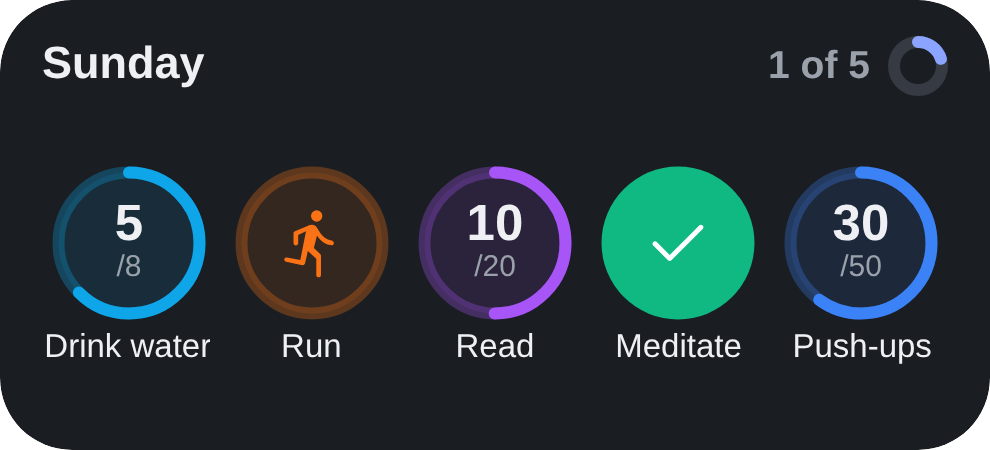
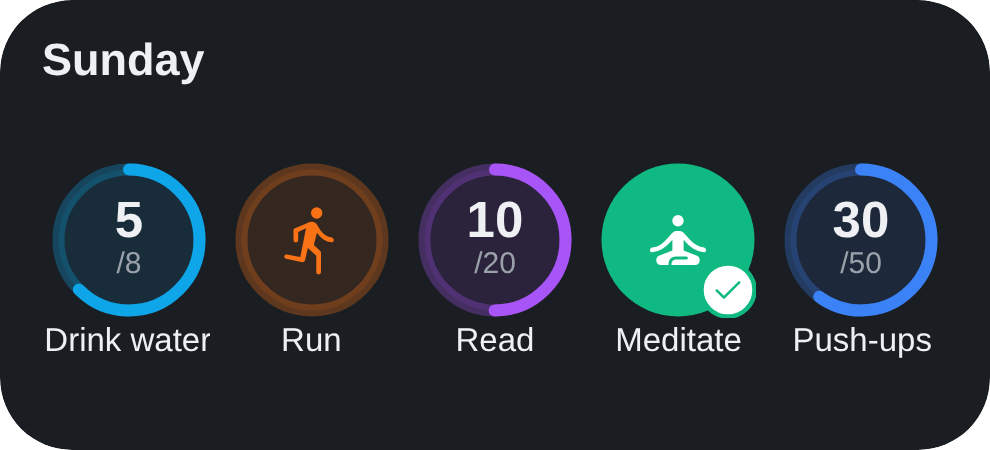
Widgets: names in one row, amounts past the goal, fill the width
- One-row Today widget always shows names under the rings (habits that
  share an icon were impossible to tell apart) and drops the "1/4 done"
  total; the rings already show what's left.
- Buttons share the row equally instead of bunching up on the left;
  with room to spare, names sit beside the rings.
- Done count habits keep their number ("12/10" when you beat the goal)
  on a solid disc with a check badge; done yes/no habits keep their icon.
  Same for the single-habit widget.
- Two-row header shows the day, plus "All done" once everything is.

Claude-Session: https://claude.ai/code/session_01EoyMmteGNvxgjbaRmb7Gdn

diff --git a/src/widget/widgets.tsx b/src/widget/widgets.tsx
@@ -181,18 +181,15 @@ function DayHeader({ data, t, title }: { data: WidgetData; t: Theme; title: stri
   return (
     <FlexWidget
       clickAction="OPEN_APP"
-      style={{ flexDirection: 'row', alignItems: 'center', width: 'match_parent', marginBottom: 8, paddingHorizontal: 2 }}>
+      style={{ flexDirection: 'row', alignItems: 'center', width: 'match_parent', marginBottom: 6, paddingHorizontal: 2 }}>
       <FlexWidget style={{ flex: 1 }}>
         <TextWidget text={title} maxLines={1} style={{ fontSize: 15, fontWeight: 'bold', color: t.text }} />
       </FlexWidget>
-      {data.total > 0 ? (
-        <TextWidget
-          text={allDone ? 'All done' : `${data.done} of ${data.total}`}
-          style={{ fontSize: 13, fontWeight: 'bold', color: allDone ? t.success : t.sub, marginRight: 6 }}
-        />
-      ) : null}
-      {data.total > 0 ? (
-        <Svg svg={ringSvg(data.done / data.total, allDone ? t.success : t.accent, t, 20, '')} size={20} />
+      {allDone ? (
+        <FlexWidget style={{ flexDirection: 'row', alignItems: 'center' }}>
+          <TextWidget text="All done" style={{ fontSize: 13, fontWeight: 'bold', color: t.success, marginRight: 4 }} />
+          <Svg svg={iconSvg(UI_ICONS['today-fill'], t.success, 18)} size={18} />
+        </FlexWidget>
       ) : null}
     </FlexWidget>
   );
@@ -211,8 +208,10 @@ function Empty({ t, icon, title, body }: { t: Theme; icon: string; title: string
 /* ---------- Today ---------- */
 
 /**
- * What a Today button shows in its middle, so its state reads without labels:
- * done = check mark on a solid disc; count habits = how far along ("3/20"); yes/no = the habit's icon.
+ * A habit button. It never loses what makes it readable:
+ * - count habits always show the amount ("6/10", or "12/10" when you went past the goal);
+ * - yes/no habits always show their icon;
+ * - done = solid disc in the habit's color plus a small check badge, so it reads as finished at a glance.
  */
 type ButtonState = Pick<TodayRow, 'done' | 'color' | 'slipped' | 'avoid' | 'numeric' | 'value' | 'target' | 'progress' | 'icon'>;
 
@@ -220,91 +219,86 @@ function buttonSvg(r: ButtonState, size: number, t: Theme, iconWithCount = false
   const cx = size / 2;
   const stroke = Math.max(3, Math.round(size / 12));
   const ring = cx - stroke / 2 - 0.5;
-  if (r.done && iconWithCount) {
-    // Alone on a 1x1: keep the habit's icon so you know which one is done, with a check badge.
-    const s = size * 0.46;
-    const b = size * 0.17;
-    const bx = cx + size * 0.27;
-    return (
-      svgOpen(size) +
-      `<circle cx="${cx}" cy="${cx}" r="${cx - 0.5}" fill="${r.color}"/>` +
-      glyph(HABIT_ICONS[r.icon].d, '#ffffff', cx - s / 2, cx - s / 2 - size * 0.02, s) +
-      `<circle cx="${bx}" cy="${bx}" r="${b}" fill="#ffffff"/>` +
-      glyph(UI_ICONS.check, r.color, bx - b * 0.75, bx - b * 0.75, b * 1.5) +
-      `</svg>`
-    );
-  }
-  if (r.done) {
-    const s = size * 0.5;
-    return svgOpen(size) + `<circle cx="${cx}" cy="${cx}" r="${cx - 0.5}" fill="${r.color}"/>` + glyph(UI_ICONS.check, '#ffffff', cx - s / 2, cx - s / 2, s) + `</svg>`;
-  }
   const tone = r.slipped ? t.danger : r.color;
-  const track =
-    `<circle cx="${cx}" cy="${cx}" r="${ring}" fill="${tone}" fill-opacity="0.12" stroke="${tone}" stroke-opacity="${r.slipped ? 1 : 0.3}" stroke-width="${stroke}"/>` +
-    (r.numeric ? arc(cx, ring, stroke, r.color, r.progress) : '');
-  if (r.numeric && iconWithCount) {
-    // No name next to it (e.g. a 1x1 widget): keep the habit's icon on top so you know which one it is.
-    const ic = size * 0.22;
-    const big = Math.round(size * (String(r.value).length > 3 ? 0.2 : 0.26));
-    const small = Math.round(size * (String(r.target).length > 3 ? 0.12 : 0.15));
-    return (
-      svgOpen(size) +
-      track +
-      glyph(HABIT_ICONS[r.icon].d, r.color, cx - ic / 2, cx - size * 0.34, ic) +
-      `<text x="${cx}" y="${cx + size * 0.1}" text-anchor="middle" font-family="sans-serif" font-weight="bold" font-size="${big}" fill="${t.text}">${r.value}</text>` +
-      `<text x="${cx}" y="${cx + size * 0.27}" text-anchor="middle" font-family="sans-serif" font-size="${small}" fill="${t.sub}">/${r.target}</text>` +
-      `</svg>`
-    );
-  }
+  const fg = r.done ? '#ffffff' : t.text;
+  const fgSub = r.done ? '#ffffff' : t.sub;
+
+  let out = svgOpen(size);
+  out += r.done
+    ? `<circle cx="${cx}" cy="${cx}" r="${cx - 0.5}" fill="${r.color}"/>`
+    : `<circle cx="${cx}" cy="${cx}" r="${ring}" fill="${tone}" fill-opacity="0.12" stroke="${tone}" stroke-opacity="${r.slipped ? 1 : 0.3}" stroke-width="${stroke}"/>` +
+      (r.numeric ? arc(cx, ring, stroke, r.color, r.progress) : '');
+
   if (r.numeric) {
-    // Big number done, small goal under it. Shrinks for long numbers like 1500/2000.
-    const big = Math.round(size * (String(r.value).length > 3 ? 0.24 : 0.32));
-    const small = Math.round(size * (String(r.target).length > 3 ? 0.16 : 0.2));
-    return (
-      svgOpen(size) +
-      track +
-      `<text x="${cx}" y="${cx - size * 0.02}" text-anchor="middle" font-family="sans-serif" font-weight="bold" font-size="${big}" fill="${t.text}">${r.value}</text>` +
-      `<text x="${cx}" y="${cx + small + size * 0.02}" text-anchor="middle" font-family="sans-serif" font-size="${small}" fill="${t.sub}">/${r.target}</text>` +
-      `</svg>`
-    );
+    const long = String(r.value).length > 3 || String(r.target).length > 3;
+    if (iconWithCount) {
+      // Nothing else on the widget names the habit (1x1): its icon sits above the amount.
+      const ic = size * 0.22;
+      out +=
+        glyph(HABIT_ICONS[r.icon].d, r.done ? '#ffffff' : r.color, cx - ic / 2, cx - size * 0.34, ic) +
+        `<text x="${cx}" y="${cx + size * 0.1}" text-anchor="middle" font-family="sans-serif" font-weight="bold" font-size="${Math.round(size * (long ? 0.2 : 0.26))}" fill="${fg}">${r.value}</text>` +
+        `<text x="${cx}" y="${cx + size * 0.27}" text-anchor="middle" font-family="sans-serif" font-size="${Math.round(size * (long ? 0.12 : 0.15))}" fill="${fgSub}" fill-opacity="${r.done ? 0.85 : 1}">/${r.target}</text>`;
+    } else {
+      const small = Math.round(size * (long ? 0.16 : 0.2));
+      out +=
+        `<text x="${cx}" y="${cx - size * 0.02}" text-anchor="middle" font-family="sans-serif" font-weight="bold" font-size="${Math.round(size * (long ? 0.24 : 0.32))}" fill="${fg}">${r.value}</text>` +
+        `<text x="${cx}" y="${cx + small + size * 0.02}" text-anchor="middle" font-family="sans-serif" font-size="${small}" fill="${fgSub}" fill-opacity="${r.done ? 0.85 : 1}">/${r.target}</text>`;
+    }
+  } else {
+    const s = size * 0.48;
+    const d = r.avoid ? UI_ICONS['shield-fill'] : HABIT_ICONS[r.icon].d;
+    out += glyph(d, r.done ? '#ffffff' : tone, cx - s / 2, cx - s / 2, s);
   }
-  const s = size * 0.48;
-  const d = r.avoid ? UI_ICONS['shield-fill'] : HABIT_ICONS[r.icon].d;
-  return svgOpen(size) + track + glyph(d, tone, cx - s / 2, cx - s / 2, s) + `</svg>`;
+
+  if (r.done) {
+    // Check badge on the ring's lower right, outlined so it stands off the disc.
+    const b = Math.max(6, size * 0.17);
+    const bx = size - b - 0.5;
+    out +=
+      `<circle cx="${bx}" cy="${bx}" r="${b}" fill="#ffffff" stroke="${r.color}" stroke-width="1.5"/>` +
+      glyph(UI_ICONS.check, r.color, bx - b * 0.72, bx - b * 0.72, b * 1.44);
+  }
+  return out + `</svg>`;
 }
 
 /**
- * Compact: a row of round habit buttons in your own order (they never move when tapped).
+ * Compact: a row of habit buttons in your own order (they never move when tapped), sharing the width
+ * equally. With room to spare, each name sits beside its ring; otherwise under it.
  * Avoid habits go last: they open the app, since a slip is logged there.
  */
-function TodayButtons({ rows, t, size, badge, labels }: { rows: TodayRow[]; t: Theme; size: Size; badge: number; labels: boolean }) {
-  // Names need ~56dp; without them buttons can sit closer so more habits fit in one row.
-  const slot = labels ? Math.max(badge + 8, 54) : badge + 8;
-  const fit = Math.max(2, Math.floor(size.width / slot));
+function TodayButtons({ rows, t, width, badge }: { rows: TodayRow[]; t: Theme; width: number; badge: number }) {
+  const minSlot = Math.max(badge + 8, 56);
+  const fit = Math.max(2, Math.floor(width / minSlot));
   const ordered = [...rows.filter((r) => !r.avoid), ...rows.filter((r) => r.avoid)];
   const overflow = ordered.length > fit ? ordered.length - (fit - 1) : 0;
   const shown = overflow ? ordered.slice(0, fit - 1) : ordered;
+  const per = width / (shown.length + (overflow ? 1 : 0));
+  const beside = per >= badge + 78;
   return (
-    <FlexWidget style={{ flex: 1, flexDirection: 'row', height: 'match_parent', alignItems: 'center', justifyContent: 'space-around' }}>
+    <FlexWidget style={{ flex: 1, flexDirection: 'row', width: 'match_parent', height: 'match_parent', alignItems: 'center' }}>
       {shown.map((r) => (
         <FlexWidget
           key={r.id}
           clickAction={r.avoid ? 'OPEN_APP' : 'TAP'}
           clickActionData={{ habitId: r.id }}
-          style={{ width: slot, alignItems: 'center' }}>
+          style={{ flex: 1, height: 'match_parent', flexDirection: beside ? 'row' : 'column', alignItems: 'center', justifyContent: 'center', paddingHorizontal: 2 }}>
           <Svg svg={buttonSvg(r, badge, t)} size={badge} />
-          {labels ? (
-            <TextWidget text={r.name} maxLines={1} truncate="END" style={{ fontSize: 11, color: t.text, marginTop: 3, textAlign: 'center' }} />
-          ) : null}
+          {beside ? (
+            <FlexWidget style={{ flex: 1, marginLeft: 8 }}>
+              <TextWidget text={r.name} maxLines={2} truncate="END" style={{ fontSize: 13, fontWeight: 'bold', color: t.text }} />
+            </FlexWidget>
+          ) : (
+            <TextWidget text={r.name} maxLines={1} truncate="END" style={{ fontSize: 11, color: t.text, marginTop: 2, textAlign: 'center' }} />
+          )}
         </FlexWidget>
       ))}
       {overflow ? (
-        <FlexWidget clickAction="OPEN_APP" style={{ width: slot, alignItems: 'center' }}>
+        <FlexWidget clickAction="OPEN_APP" style={{ flex: 1, height: 'match_parent', alignItems: 'center', justifyContent: 'center' }}>
           <FlexWidget
             style={{ width: badge, height: badge, borderRadius: badge / 2, backgroundColor: t.card, alignItems: 'center', justifyContent: 'center' }}>
             <TextWidget text={`+${overflow}`} style={{ fontSize: 14, fontWeight: 'bold', color: t.sub }} />
           </FlexWidget>
-          {labels ? <TextWidget text="More" maxLines={1} style={{ fontSize: 11, color: t.sub, marginTop: 3 }} /> : null}
+          {beside ? null : <TextWidget text="More" maxLines={1} style={{ fontSize: 11, color: t.sub, marginTop: 2 }} />}
         </FlexWidget>
       ) : null}
     </FlexWidget>
@@ -356,32 +350,21 @@ function TodayList({ rows, t }: { rows: TodayRow[]; t: Theme }) {
   );
 }
 
-const SUMMARY_W = 46;
-
 export function TodayWidget({ data, dark, size }: { data: WidgetData; dark: boolean; size: Size }) {
   const t = theme(dark);
-  const allDone = data.total > 0 && data.done === data.total;
 
-  // One row tall: no header. The day's progress ring leads, then the buttons; names only if they fit.
+  // One row tall: just the buttons, names included (they're how you tell habits apart).
   if (size.height < 100) {
-    const labels = size.height >= 76;
-    const badge = clamp(size.height - 16 - (labels ? 16 : 0), 30, 44);
+    const badge = clamp(size.height - 12 - 15, 28, 46);
     return (
-      <FlexWidget style={{ ...root(t, 8), flexDirection: 'row', alignItems: 'center', paddingHorizontal: 10 }}>
-        {/* Plain text, not a ring, so the day's total can't be mistaken for a habit button. */}
-        <FlexWidget clickAction="OPEN_APP" style={{ alignItems: 'center', width: SUMMARY_W }}>
-          <TextWidget
-            text={data.total ? `${data.done}/${data.total}` : '–'}
-            style={{ fontSize: 18, fontWeight: 'bold', color: allDone ? t.success : t.text }}
-          />
-          <TextWidget text={allDone ? 'all done' : 'done'} style={{ fontSize: 11, color: allDone ? t.success : t.sub }} />
-        </FlexWidget>
+      <FlexWidget style={{ ...root(t, 6), flexDirection: 'row', alignItems: 'center', paddingHorizontal: 8 }}>
         {data.rows.length === 0 ? (
-          <FlexWidget clickAction="OPEN_APP" style={{ flex: 1, paddingLeft: 8 }}>
+          <FlexWidget clickAction="OPEN_APP" style={{ flex: 1, flexDirection: 'row', alignItems: 'center', paddingLeft: 8 }}>
+            <Svg svg={iconSvg(UI_ICONS.spa, t.accent, 22)} size={22} mr={8} />
             <TextWidget text={data.message.title} maxLines={1} style={{ fontSize: 14, fontWeight: 'bold', color: t.text }} />
           </FlexWidget>
         ) : (
-          <TodayButtons rows={data.rows} t={t} size={{ width: size.width - 20 - SUMMARY_W, height: size.height }} badge={badge} labels={labels} />
+          <TodayButtons rows={data.rows} t={t} width={size.width - 16} badge={badge} />
         )}
       </FlexWidget>
     );
@@ -394,7 +377,7 @@ export function TodayWidget({ data, dark, size }: { data: WidgetData; dark: bool
       {data.rows.length === 0 ? (
         <Empty t={t} icon={UI_ICONS.spa} title={data.message.title} body={compact ? undefined : data.message.body} />
       ) : compact ? (
-        <TodayButtons rows={data.rows} t={t} size={{ width: size.width - 24, height: size.height }} badge={clamp(Math.floor(size.height - 24 - 30 - 18), 36, 52)} labels />
+        <TodayButtons rows={data.rows} t={t} width={size.width - 24} badge={clamp(Math.floor(size.height - 24 - 30 - 18), 36, 52)} />
       ) : (
         <TodayList rows={data.rows} t={t} />
       )}
